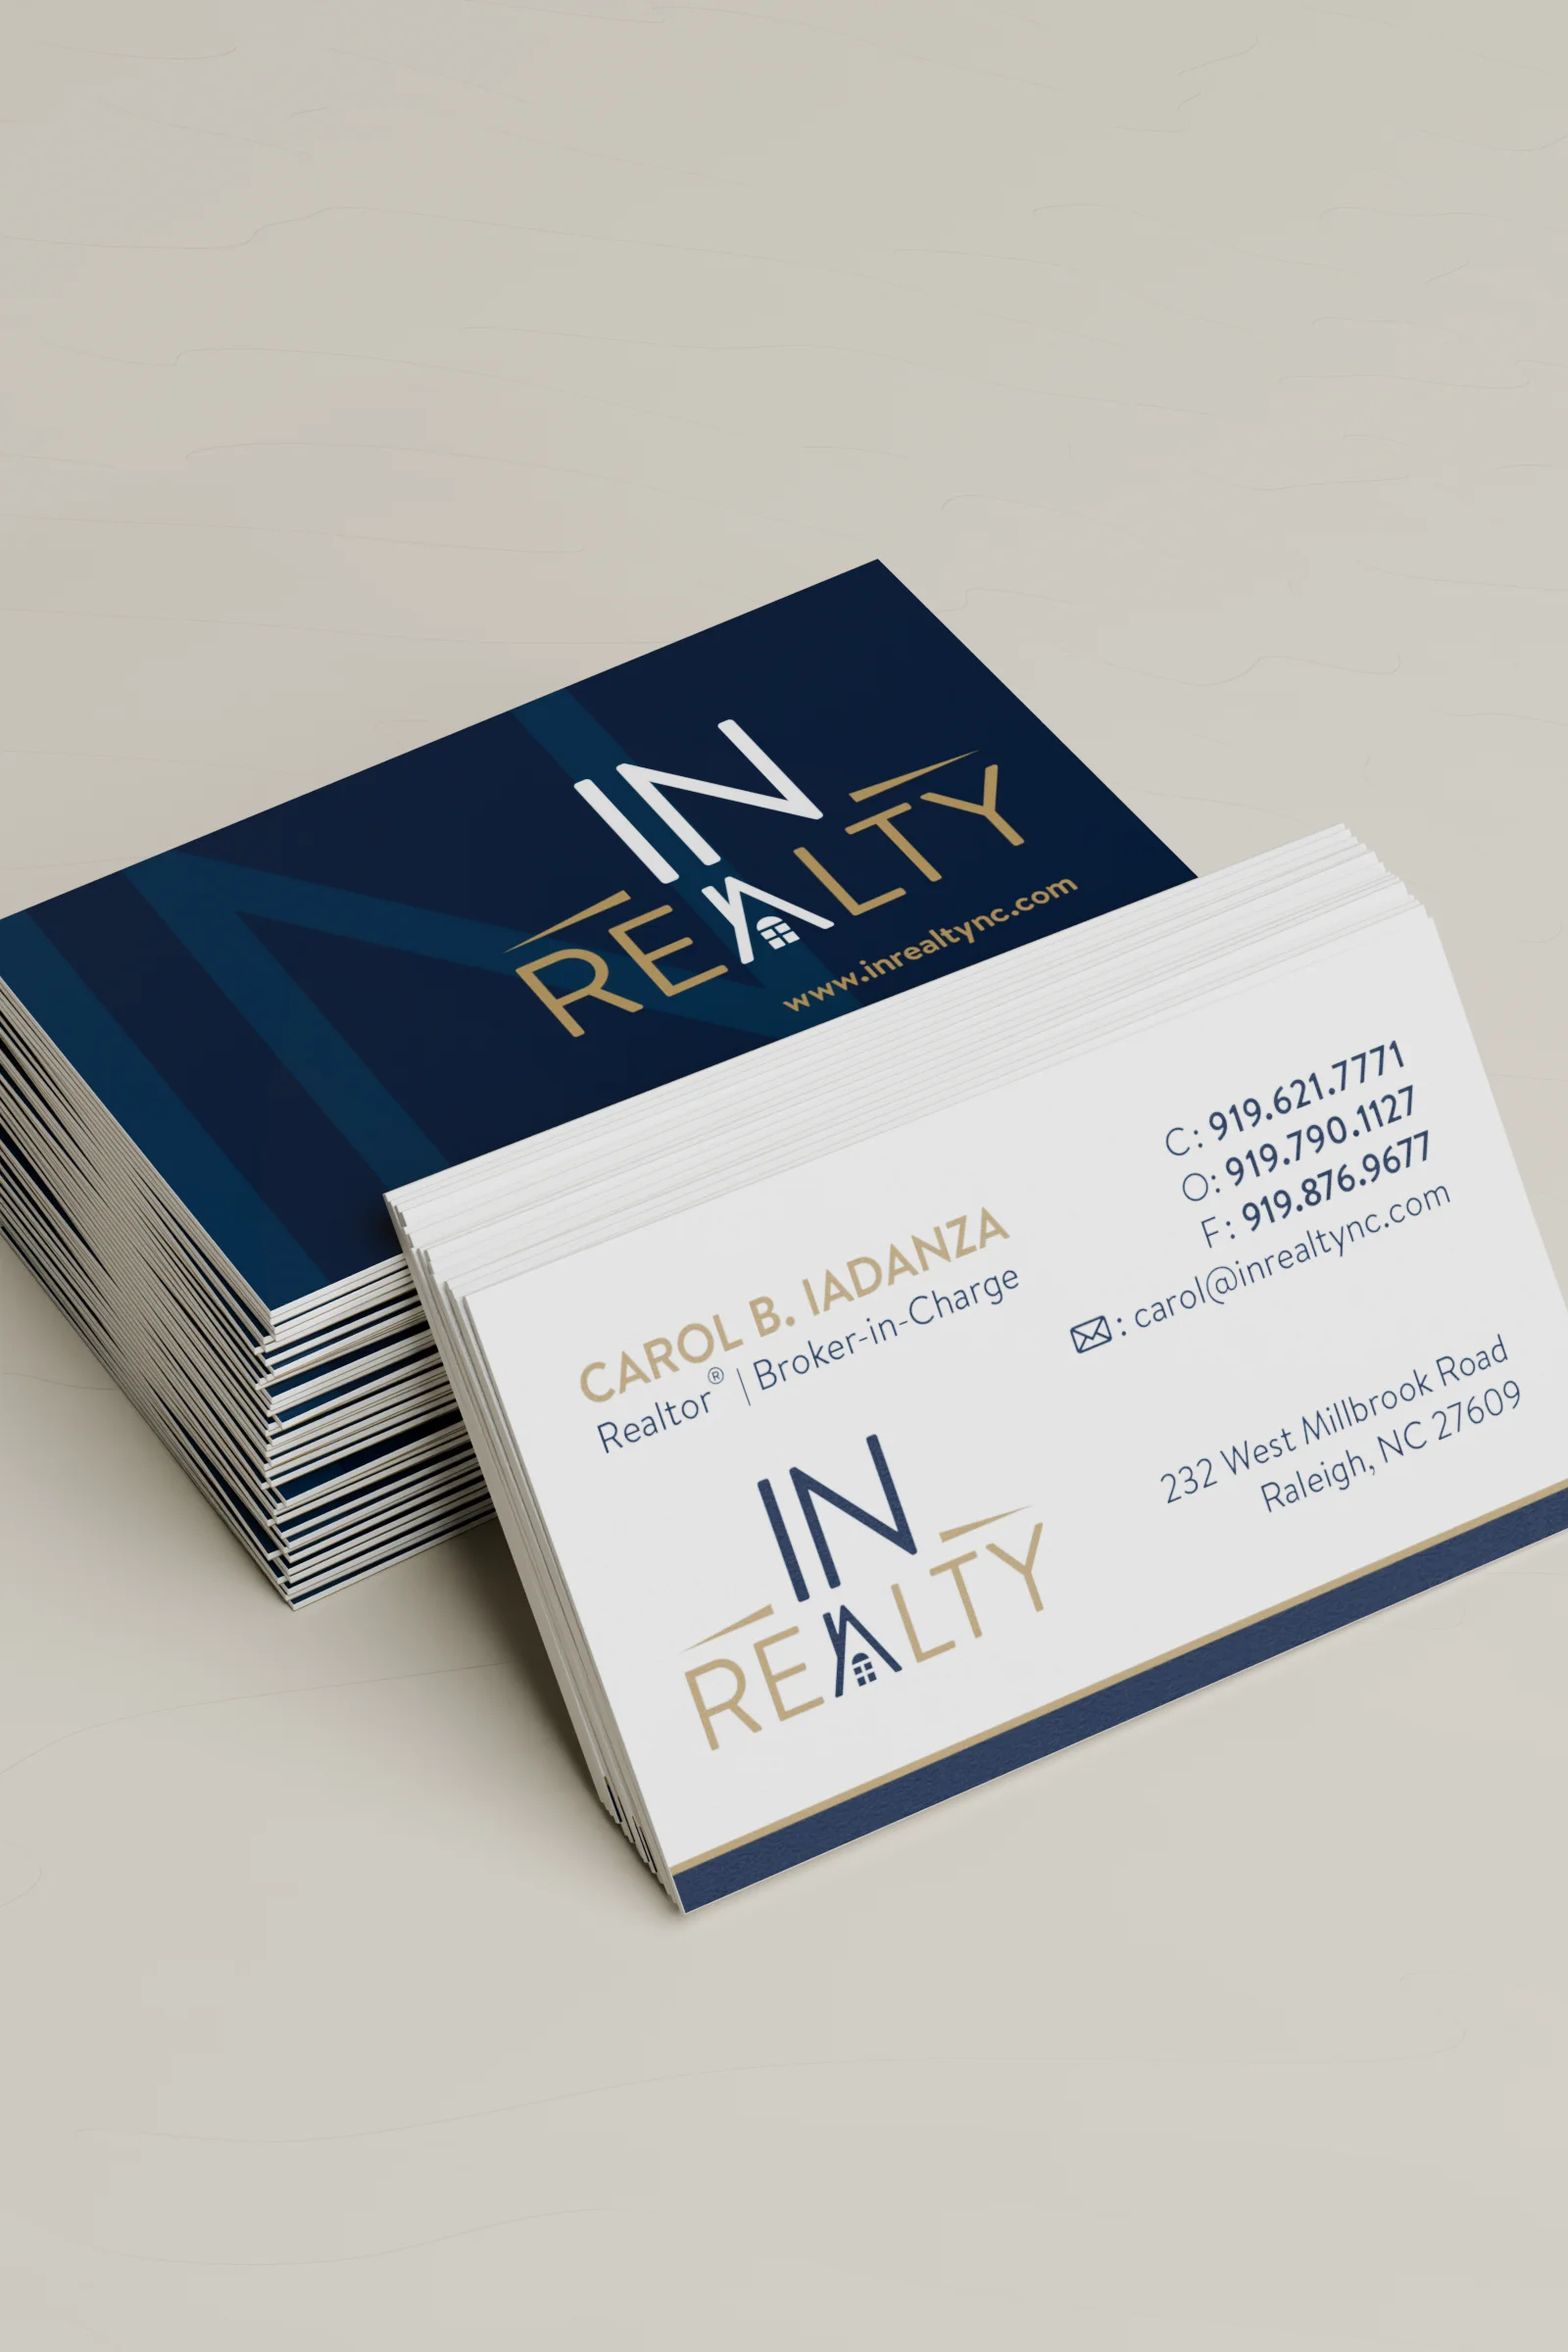
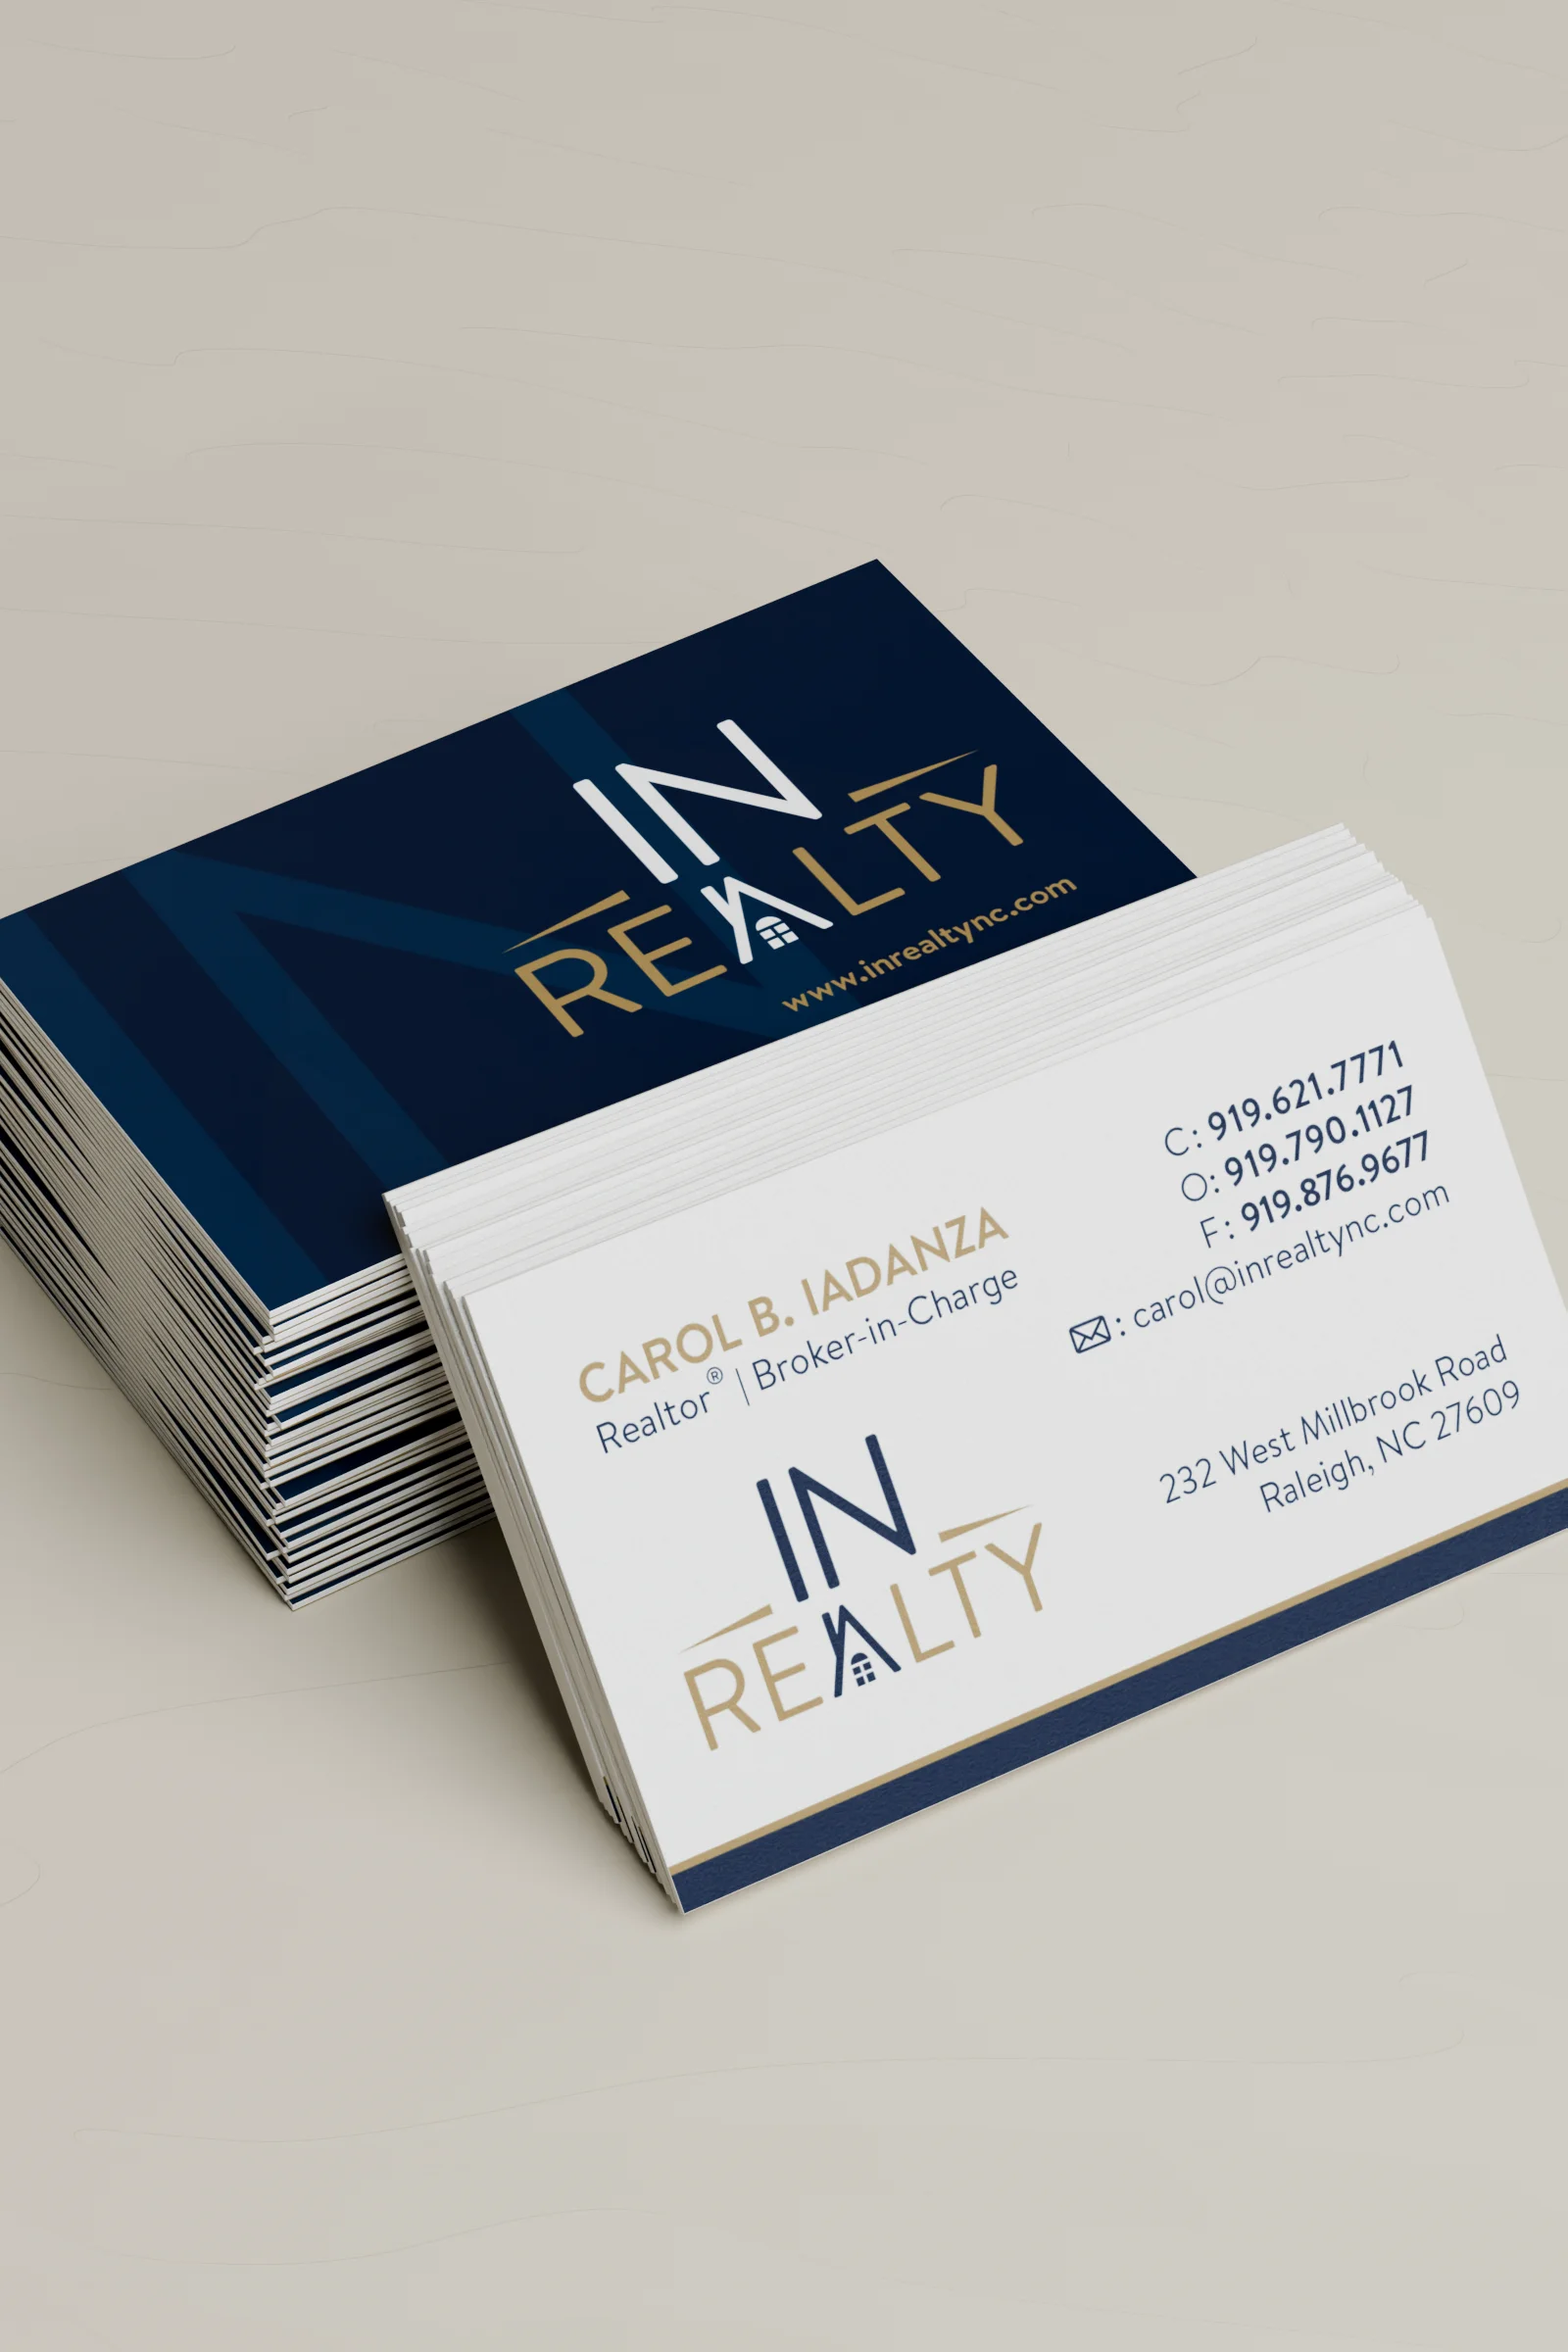
clean up and update images

diff --git a/index.html b/index.html
@@ -377,7 +377,7 @@
           <div class="col-12 col-md-7 order-first order-md-last offset-md-1 pe-0">
             <div class="gallery-grid pb-3">
               <img class="gallery-img tall" src="images/portfolioINRealty02.webp">
-              <img class="gallery-img tall" src="images/portfolioINRealty03.jpg">
+              <img class="gallery-img tall" src="images/portfolioINRealty03.webp">
             </div>
           </div>
           <div class="col-10 col-md-4 order-last order-md-first">
